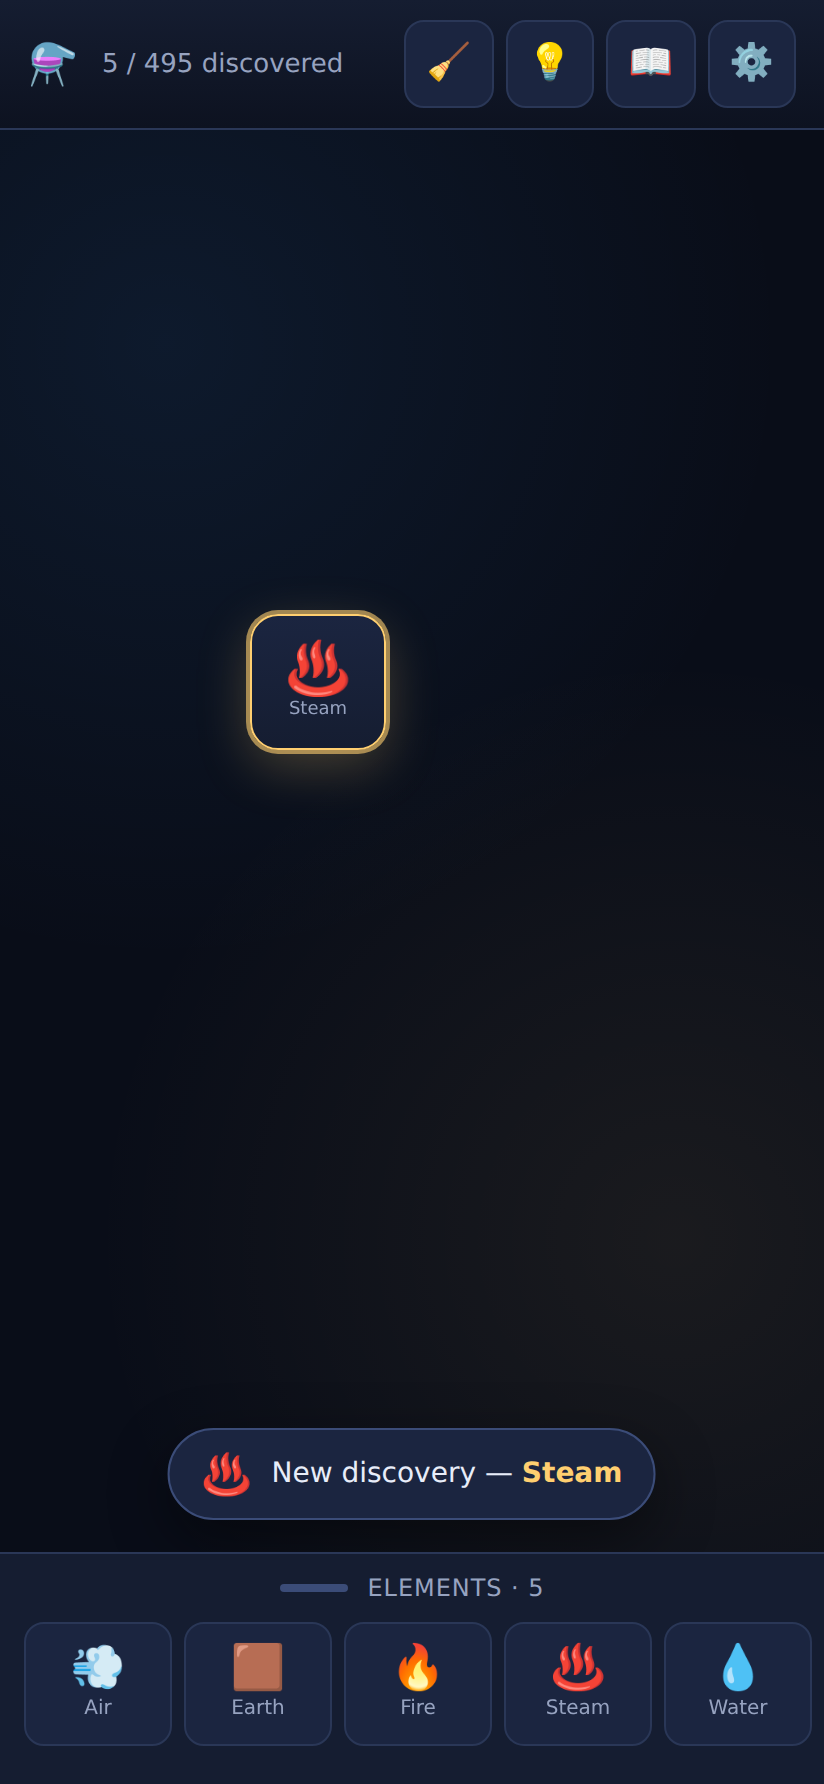
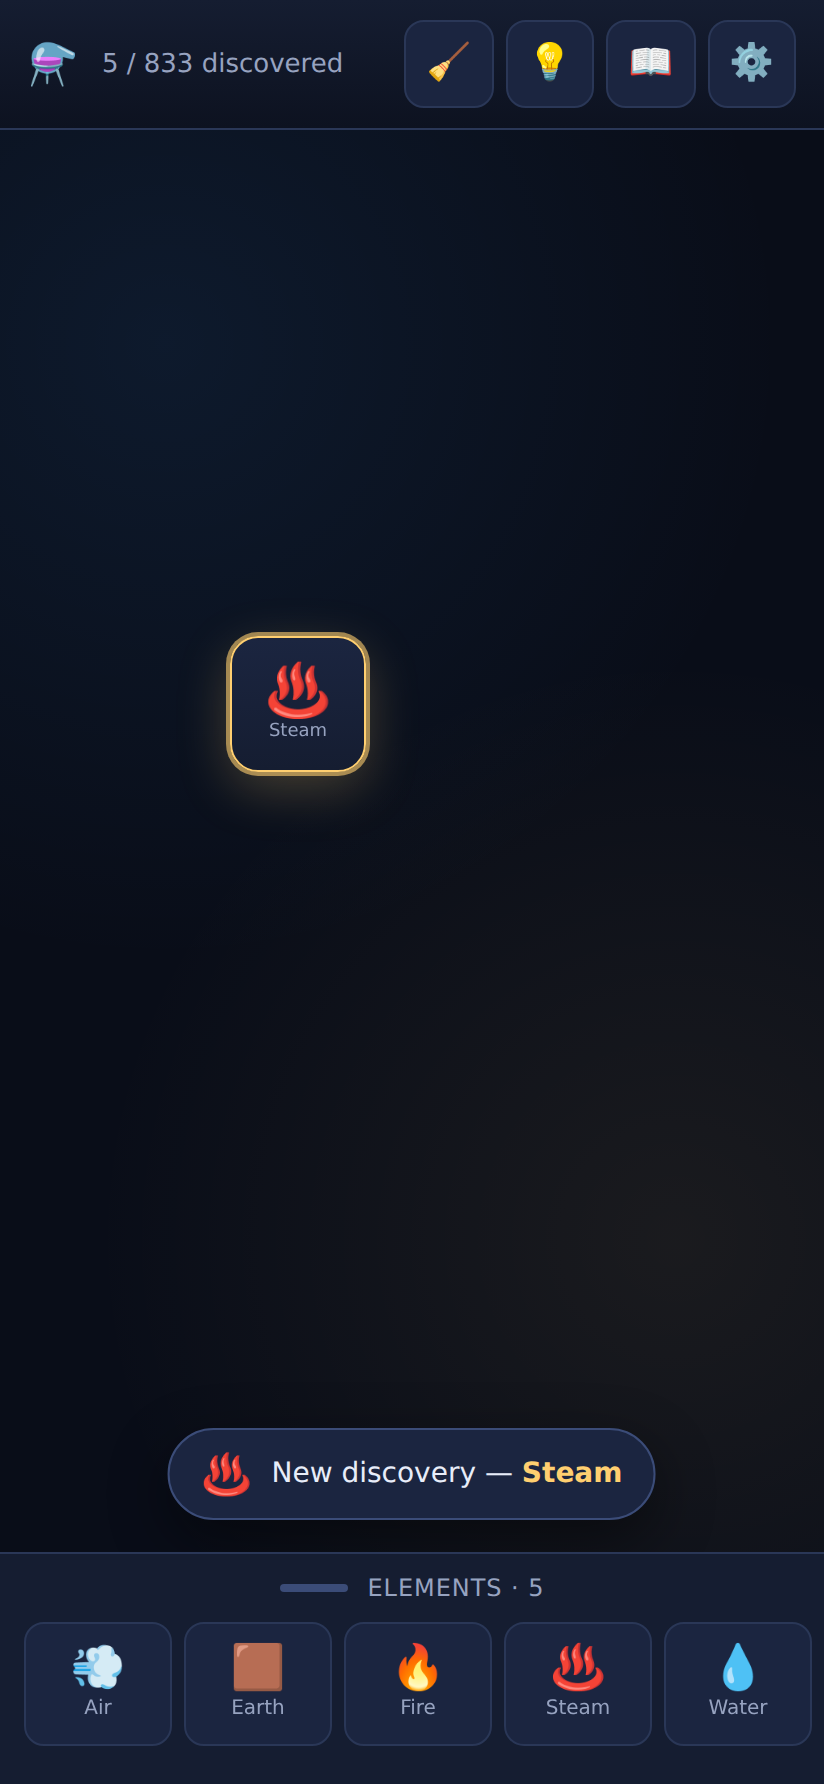
Add the opt-in spicy pack, its tests, and refreshed docs
52 adult joke elements behind the settings toggle, authored as a strict
leaf layer so the 833-element default game never depends on them. Adds
tests for that invariant, for the tame set validating on its own, and for
the tame set staying above 800.

Verified in a browser: the counter reads 833 with the mode off and 885
with it on, a spicy discovery survives being toggled off and comes back,
and spicy tokens leave the board rather than rendering blank.

Claude-Session: https://claude.ai/code/session_01CCYBmYiyKpWEL9iLGK5HsB

Changed region(s): [[0.2731, 0.3391, 0.4854, 0.4624], [0.182, 0.0308, 0.2124, 0.0617]]

diff --git a/alchemy-forge/src/data/packs/14-spicy.ts b/alchemy-forge/src/data/packs/14-spicy.ts
@@ -1,0 +1,175 @@
+import type { Pack } from '../types';
+
+/**
+ * The opt-in pack. Off by default and hidden entirely until the player turns
+ * spicy mode on in settings.
+ *
+ * Two rules hold every entry here together. Everything carries `spicy: true`,
+ * and nothing here is ever an input to a tame element — the validator enforces
+ * that as a hard error, because it is what lets the toggle exist at all.
+ *
+ * The register is joke, not erotica: the punchline lives in the blurb.
+ */
+export const spicyPack: Pack = {
+  id: 'spicy',
+  title: 'Spicy',
+  elements: [
+    { id: 'fart', name: 'Fart', emoji: '💨', category: 'spicy', spicy: true, blurb: 'The oldest joke in the language, and it still lands every single time.' },
+    { id: 'shart', name: 'Shart', emoji: '😬', category: 'spicy', spicy: true, blurb: 'A fart that overcommitted. There is no recovery from here, only laundry.' },
+    { id: 'dutch-oven', name: 'Dutch Oven', emoji: '🛏', category: 'spicy', spicy: true, blurb: 'The duvet is not a container. It is a delivery mechanism.' },
+    { id: 'toilet-throne', name: 'Porcelain Throne', emoji: '🚽', category: 'spicy', spicy: true, blurb: 'The only throne most people will ever sit on, and they take their phone.' },
+    { id: 'poo-pourri', name: 'Courtesy Flush', emoji: '🌀', category: 'spicy', spicy: true, blurb: 'A small kindness, performed under enormous pressure.' },
+    { id: 'morning-wood', name: 'Morning Wood', emoji: '🪵', category: 'spicy', spicy: true, blurb: 'Involuntary, inconvenient, and medically a sign that everything is working.' },
+    { id: 'boner', name: 'Inconvenient Boner', emoji: '📈', category: 'spicy', spicy: true, blurb: 'Arrives during presentations, never during opportunities.' },
+    { id: 'blue-balls', name: 'Blue Balls', emoji: '🔵', category: 'spicy', spicy: true, blurb: 'Real, mild, self-resolving, and historically used as an argument. Badly.' },
+    { id: 'viagra', name: 'Viagra', emoji: '💊', category: 'spicy', spicy: true, blurb: 'Developed for angina. The trial participants declined to return the leftovers.' },
+    { id: 'condom', name: 'Condom', emoji: '🎈', category: 'spicy', spicy: true, blurb: 'The one piece of safety equipment people argue about wearing.' },
+    { id: 'orgasm', name: 'Orgasm', emoji: '🎆', category: 'spicy', spicy: true, blurb: 'A few seconds that most of human history has been organised around.' },
+    { id: 'quickie', name: 'Quickie', emoji: '⏱', category: 'spicy', spicy: true, blurb: 'Scheduled around a lunch break, and honest about it.' },
+    { id: 'one-night-stand', name: 'One-Night Stand', emoji: '🌙', category: 'spicy', spicy: true, blurb: 'Two people who will both pretend not to see each other in the supermarket.' },
+    { id: 'walk-of-shame', name: 'Walk of Shame', emoji: '👠', category: 'spicy', spicy: true, blurb: 'Last night’s outfit, this morning’s sunlight, everyone’s window.' },
+    { id: 'hookup', name: 'Hookup', emoji: '🔗', category: 'spicy', spicy: true, blurb: 'A word chosen precisely because it commits to nothing.' },
+    { id: 'booty-call', name: 'Booty Call', emoji: '📞', category: 'spicy', spicy: true, blurb: 'Never placed before eleven, never answered honestly after.' },
+    { id: 'sexting', name: 'Sexting', emoji: '📲', category: 'spicy', spicy: true, blurb: 'Erotic literature, produced at speed, by amateurs, with autocorrect fighting back.' },
+    { id: 'dick-pic', name: 'Unsolicited Dick Pic', emoji: '🍆', category: 'spicy', spicy: true, blurb: 'Sent by people convinced this has worked at least once for somebody.' },
+    { id: 'thirst-trap', name: 'Thirst Trap', emoji: '🪤', category: 'spicy', spicy: true, blurb: 'A gym selfie with a caption about hard work.' },
+    { id: 'dating-app', name: 'Dating App', emoji: '🔥', category: 'spicy', spicy: true, blurb: 'A slot machine that occasionally pays out in disappointing dinners.' },
+    { id: 'ghosting', name: 'Ghosting', emoji: '👻', category: 'spicy', spicy: true, blurb: 'Ending a relationship by simply ceasing to exist. Cowardly and extremely popular.' },
+    { id: 'situationship', name: 'Situationship', emoji: '🤷', category: 'spicy', spicy: true, blurb: 'Eight months in and nobody has used a noun.' },
+    { id: 'ick', name: 'The Ick', emoji: '🫠', category: 'spicy', spicy: true, blurb: 'Attraction, destroyed permanently by one entirely innocent thing they did.' },
+    { id: 'simp', name: 'Simp', emoji: '🥺', category: 'spicy', spicy: true, blurb: 'Historically called courtship. The rebrand was not kind.' },
+    { id: 'sugar-daddy', name: 'Sugar Daddy', emoji: '🍬', category: 'spicy', spicy: true, blurb: 'An arrangement where at least everyone is clear on the terms.' },
+    { id: 'kink', name: 'Kink', emoji: '🪢', category: 'spicy', spicy: true, blurb: 'Whatever you are into, there is a forum, and it has moderators.' },
+    { id: 'safeword', name: 'Safeword', emoji: '🛑', category: 'spicy', spicy: true, blurb: 'The most responsible thing in this entire pack.' },
+    { id: 'handcuffs', name: 'Fuzzy Handcuffs', emoji: '🔗', category: 'spicy', spicy: true, blurb: 'The fur is there because the metal ones taught everybody a lesson.' },
+    { id: 'dungeon-room', name: 'Play Dungeon', emoji: '🕯', category: 'spicy', spicy: true, blurb: 'A basement with a booking system and a strict cleaning rota.' },
+    { id: 'strip-club', name: 'Strip Club', emoji: '💵', category: 'spicy', spicy: true, blurb: 'Ruinously expensive, aggressively lit, and the buffet is inexplicably good.' },
+    { id: 'brothel', name: 'Brothel', emoji: '🏮', category: 'spicy', spicy: true, blurb: 'The oldest business, and the one with the most euphemisms.' },
+    { id: 'porn', name: 'Porn', emoji: '📼', category: 'spicy', spicy: true, blurb: 'Drove the adoption of VHS, the internet, and streaming video. You are welcome.' },
+    { id: 'rule-34', name: 'Rule 34', emoji: '🖍', category: 'spicy', spicy: true, blurb: 'If it exists, someone has drawn it. Do not test this. Someone already has.' },
+    { id: 'furry', name: 'Fursona', emoji: '🦊', category: 'spicy', spicy: true, blurb: 'Costs four thousand pounds and is, by all accounts, worth it to them.' },
+    { id: 'orgy', name: 'Orgy', emoji: '🍇', category: 'spicy', spicy: true, blurb: 'The Romans get the credit, but the logistics were always the hard part.' },
+    { id: 'bachelor-party', name: 'Stag Do', emoji: '🎊', category: 'spicy', spicy: true, blurb: 'A weekend designed by the one friend nobody should have listened to.' },
+    { id: 'drunk-text', name: 'Drunk Text', emoji: '✉', category: 'spicy', spicy: true, blurb: 'Sent at 2am with total confidence, read at 9am with none.' },
+    { id: 'beer-goggles', name: 'Beer Goggles', emoji: '🥽', category: 'spicy', spicy: true, blurb: 'Not a change in perception. A change in standards.' },
+    { id: 'tequila', name: 'Tequila', emoji: '🥃', category: 'spicy', spicy: true, blurb: 'The only drink that comes with a ritual, a salt requirement, and a warning.' },
+    { id: 'blackout-drunk', name: 'Blackout', emoji: '🕳', category: 'spicy', spicy: true, blurb: 'You were there. You were talking. The tape simply was not running.' },
+    { id: 'keg-stand', name: 'Keg Stand', emoji: '🤸', category: 'spicy', spicy: true, blurb: 'Being held upside down by people who have also been drinking.' },
+    { id: 'hangover', name: 'Hangover', emoji: '🤕', category: 'spicy', spicy: true, blurb: 'The bill, presented in the morning, with interest.' },
+    { id: 'hangxiety', name: 'Hangxiety', emoji: '😰', category: 'spicy', spicy: true, blurb: 'The hangover of the mind, replaying one sentence you said at midnight.' },
+    { id: 'vomit', name: 'Technicolour Yawn', emoji: '🤮', category: 'spicy', spicy: true, blurb: 'Your body, filing a formal objection.' },
+    { id: 'kebab-3am', name: '3AM Kebab', emoji: '🥙', category: 'spicy', spicy: true, blurb: 'The best food you will ever eat, and only under these exact conditions.' },
+    { id: 'weed', name: 'Weed', emoji: '🌿', category: 'spicy', spicy: true, blurb: 'A plant that has caused more legislation than any other flowering species.' },
+    { id: 'bong', name: 'Bong', emoji: '🫧', category: 'spicy', spicy: true, blurb: 'Water filtration, applied with more enthusiasm than engineering.' },
+    { id: 'edible', name: 'Edible', emoji: '🍪', category: 'spicy', spicy: true, blurb: '"I don’t feel anything" is the most dangerous sentence in this pack.' },
+    { id: 'munchies', name: 'The Munchies', emoji: '🍟', category: 'spicy', spicy: true, blurb: 'An appetite with no ceiling and no taste.' },
+    { id: 'couch-lock', name: 'Couch Lock', emoji: '🛋', category: 'spicy', spicy: true, blurb: 'You could get up. You have simply reviewed the case and declined.' },
+    { id: 'paranoia', name: 'Paranoia', emoji: '👁', category: 'spicy', spicy: true, blurb: 'Everyone in the room knows. Everyone in the room is asleep.' },
+    { id: 'comedown', name: 'Comedown', emoji: '📉', category: 'spicy', spicy: true, blurb: 'The universe, quietly rebalancing the books on Tuesday.' },
+  ],
+  recipes: [
+    { a: 'human', b: 'stomach', out: 'fart' },
+    { a: 'beer', b: 'stomach', out: 'fart' },
+    { a: 'fart', b: 'curry', out: 'shart' },
+    { a: 'fart', b: 'takeaway', out: 'shart' },
+    { a: 'fart', b: 'cloth', out: 'dutch-oven' },
+    { a: 'fart', b: 'sleep', out: 'dutch-oven' },
+    { a: 'shart', b: 'house', out: 'toilet-throne' },
+    { a: 'sewer', b: 'smartphone', out: 'toilet-throne' },
+    { a: 'toilet-throne', b: 'blessing', out: 'poo-pourri' },
+    { a: 'toilet-throne', b: 'wind', out: 'poo-pourri' },
+    { a: 'sleep', b: 'boner', out: 'morning-wood' },
+    { a: 'morning-wood', b: 'meeting', out: 'boner' },
+    { a: 'blood', b: 'dream', out: 'boner' },
+    { a: 'boner', b: 'ice', out: 'blue-balls' },
+    { a: 'boner', b: 'ghosting', out: 'blue-balls' },
+    { a: 'boner', b: 'medicine', out: 'viagra' },
+    { a: 'heart-organ', b: 'pharmacy', out: 'viagra' },
+    { a: 'rubber', b: 'hookup', out: 'condom' },
+    { a: 'rubber', b: 'blessing', out: 'condom' },
+    { a: 'hookup', b: 'lightning', out: 'orgasm' },
+    { a: 'nerve', b: 'quickie', out: 'orgasm' },
+    { a: 'hookup', b: 'clock', out: 'quickie' },
+    { a: 'hookup', b: 'coffee-break', out: 'quickie' },
+    { a: 'hookup', b: 'night', out: 'one-night-stand' },
+    { a: 'beer-goggles', b: 'hookup', out: 'one-night-stand' },
+    { a: 'one-night-stand', b: 'sun', out: 'walk-of-shame' },
+    { a: 'one-night-stand', b: 'shoe', out: 'walk-of-shame' },
+    { a: 'dating-app', b: 'night', out: 'hookup' },
+    { a: 'strip-club', b: 'money', out: 'hookup' },
+    { a: 'hookup', b: 'telephone', out: 'booty-call' },
+    { a: 'hookup', b: 'notification', out: 'booty-call' },
+    { a: 'smartphone', b: 'porn', out: 'sexting' },
+    { a: 'writing', b: 'boner', out: 'sexting' },
+    { a: 'sexting', b: 'camera', out: 'dick-pic' },
+    { a: 'boner', b: 'photograph', out: 'dick-pic' },
+    { a: 'social-media', b: 'gym', out: 'thirst-trap' },
+    { a: 'influencer', b: 'mirror', out: 'thirst-trap' },
+    { a: 'app', b: 'love', out: 'dating-app' },
+    { a: 'app', b: 'thirst-trap', out: 'dating-app' },
+    { a: 'dating-app', b: 'silence', out: 'ghosting' },
+    { a: 'ghost', b: 'situationship', out: 'ghosting' },
+    { a: 'hookup', b: 'time', out: 'situationship' },
+    { a: 'love', b: 'chaos', out: 'situationship' },
+    { a: 'situationship', b: 'mirror', out: 'ick' },
+    { a: 'love', b: 'fart', out: 'ick' },
+    { a: 'love', b: 'money', out: 'simp' },
+    { a: 'influencer', b: 'love', out: 'simp' },
+    { a: 'simp', b: 'treasure', out: 'sugar-daddy' },
+    { a: 'money', b: 'situationship', out: 'sugar-daddy' },
+    { a: 'porn', b: 'idea', out: 'kink' },
+    { a: 'rope', b: 'love', out: 'kink' },
+    { a: 'kink', b: 'law', out: 'safeword' },
+    { a: 'kink', b: 'word', out: 'safeword' },
+    { a: 'kink', b: 'fur', out: 'handcuffs' },
+    { a: 'kink', b: 'iron', out: 'handcuffs' },
+    { a: 'kink', b: 'cave', out: 'dungeon-room' },
+    { a: 'handcuffs', b: 'house', out: 'dungeon-room' },
+    { a: 'dance', b: 'money', out: 'strip-club' },
+    { a: 'bachelor-party', b: 'city', out: 'strip-club' },
+    { a: 'strip-club', b: 'house', out: 'brothel' },
+    { a: 'money', b: 'orgasm', out: 'brothel' },
+    { a: 'film', b: 'orgasm', out: 'porn' },
+    { a: 'internet', b: 'brothel', out: 'porn' },
+    { a: 'porn', b: 'meme', out: 'rule-34' },
+    { a: 'porn', b: 'art', out: 'rule-34' },
+    { a: 'rule-34', b: 'costume', out: 'furry' },
+    { a: 'fur', b: 'costume', out: 'furry' },
+    { a: 'orgasm', b: 'feast', out: 'orgy' },
+    { a: 'hookup', b: 'festival', out: 'orgy' },
+    { a: 'beer', b: 'quest', out: 'bachelor-party' },
+    { a: 'weekend', b: 'tequila', out: 'bachelor-party' },
+    { a: 'blackout-drunk', b: 'smartphone', out: 'drunk-text' },
+    { a: 'tequila', b: 'love', out: 'drunk-text' },
+    { a: 'beer', b: 'glasses', out: 'beer-goggles' },
+    { a: 'tequila', b: 'night', out: 'beer-goggles' },
+    { a: 'cactus', b: 'vodka', out: 'tequila' },
+    { a: 'cactus', b: 'salt', out: 'tequila' },
+    { a: 'tequila', b: 'void', out: 'blackout-drunk' },
+    { a: 'whiskey', b: 'keg-stand', out: 'blackout-drunk' },
+    { a: 'beer', b: 'bachelor-party', out: 'keg-stand' },
+    { a: 'beer', b: 'gravity', out: 'keg-stand' },
+    { a: 'blackout-drunk', b: 'morning-wood', out: 'hangover' },
+    { a: 'beer', b: 'sun', out: 'hangover' },
+    { a: 'hangover', b: 'drunk-text', out: 'hangxiety' },
+    { a: 'hangover', b: 'therapy', out: 'hangxiety' },
+    { a: 'hangover', b: 'kebab-3am', out: 'vomit' },
+    { a: 'tequila', b: 'stomach', out: 'vomit' },
+    { a: 'blackout-drunk', b: 'takeaway', out: 'kebab-3am' },
+    { a: 'meat', b: 'blackout-drunk', out: 'kebab-3am' },
+    { a: 'herb', b: 'smoke', out: 'weed' },
+    { a: 'plant', b: 'law', out: 'weed' },
+    { a: 'weed', b: 'pipe', out: 'bong' },
+    { a: 'weed', b: 'well', out: 'bong' },
+    { a: 'weed', b: 'cookie', out: 'edible' },
+    { a: 'weed', b: 'butter', out: 'edible' },
+    { a: 'bong', b: 'refrigerator', out: 'munchies' },
+    { a: 'edible', b: 'supermarket', out: 'munchies' },
+    { a: 'edible', b: 'streaming', out: 'couch-lock' },
+    { a: 'bong', b: 'sleep', out: 'couch-lock' },
+    { a: 'edible', b: 'notification', out: 'paranoia' },
+    { a: 'weed', b: 'nightmare', out: 'paranoia' },
+    { a: 'paranoia', b: 'morning-wood', out: 'comedown' },
+    { a: 'orgasm', b: 'entropy', out: 'comedown' },
+  ],
+};

diff --git a/alchemy-forge/tests/data.test.ts b/alchemy-forge/tests/data.test.ts
@@ -1,5 +1,6 @@
 import { describe, expect, it } from 'vitest';
-import { ELEMENTS, INDEX, RECIPES } from '../src/data/index';
+import { ELEMENTS, INDEX, RECIPES, TAME_ELEMENTS, TAME_INDEX, TAME_RECIPES } from '../src/data/index';
+import { spicyPack } from '../src/data/packs/14-spicy';
 import { validateData } from '../src/data/validate';
 import { pairKey, reachableDepths } from '../src/data/indexes';
 import { BASE_ELEMENT_IDS } from '../src/data/types';
@@ -37,6 +38,36 @@ describe('recipe data', () => {
     // Sanity: the tree should have leaves, but not consist mostly of them.
     expect(INDEX.finalIds.size).toBeGreaterThan(0);
     expect(INDEX.finalIds.size).toBeLessThan(ELEMENTS.length / 2);
+  });
+});
+
+describe('spicy content', () => {
+  it('marks every element in the spicy pack, and nothing outside it', () => {
+    for (const element of spicyPack.elements) expect(element.spicy).toBe(true);
+
+    const spicyIds = new Set(spicyPack.elements.map((element) => element.id));
+    const strays = ELEMENTS.filter((element) => element.spicy && !spicyIds.has(element.id));
+    expect(strays.map((element) => element.id)).toEqual([]);
+  });
+
+  it('never lets a spicy input produce a tame element', () => {
+    // The invariant the whole toggle rests on: subtracting the spicy set must
+    // never leave a tame element with no way in.
+    const spicyIds = new Set(ELEMENTS.filter((element) => element.spicy).map((e) => e.id));
+    const leaks = RECIPES.filter(
+      (recipe) => (spicyIds.has(recipe.a) || spicyIds.has(recipe.b)) && !spicyIds.has(recipe.out),
+    );
+    expect(leaks).toEqual([]);
+  });
+
+  it('validates cleanly with the spicy pack subtracted', () => {
+    const tameReport = validateData(TAME_ELEMENTS, TAME_RECIPES);
+    expect(tameReport.errors).toEqual([]);
+    expect(tameReport.stats.unreachable).toEqual([]);
+  });
+
+  it('leaves a full-sized game for players who never turn spicy mode on', () => {
+    expect(TAME_INDEX.all.length).toBeGreaterThanOrEqual(800);
   });
 });
 

diff --git a/alchemy-forge/src/data/index.ts b/alchemy-forge/src/data/index.ts
@@ -15,13 +15,14 @@ import { bodyPack } from './packs/10-body';
 import { modernPack } from './packs/11-modern';
 import { arcanaPack } from './packs/12-arcana';
 import { apocalypsePack } from './packs/13-apocalypse';
+import { spicyPack } from './packs/14-spicy';
 
 /**
  * Packs are merged in order. Splitting content this way keeps each themed
  * branch of the tree editable on its own, and lets the validator report which
  * bundle a problem came from.
  */
-export const PACKS: Pack[] = [basePack, primordialPack, naturePack, civilizationPack, technologyPack, culturePack, cosmosPack, mythologyPack, kitchenPack, oceanPack, bodyPack, modernPack, arcanaPack, apocalypsePack];
+export const PACKS: Pack[] = [basePack, primordialPack, naturePack, civilizationPack, technologyPack, culturePack, cosmosPack, mythologyPack, kitchenPack, oceanPack, bodyPack, modernPack, arcanaPack, apocalypsePack, spicyPack];
 
 export const ELEMENTS: Element[] = PACKS.flatMap((pack) => pack.elements);
 export const RECIPES: Recipe[] = PACKS.flatMap((pack) => pack.recipes);

diff --git a/alchemy-forge/README.md b/alchemy-forge/README.md
@@ -1,8 +1,8 @@
 # Alchemy Forge
 
 A crafting puzzle game for the phone. Start with air, earth, fire and water;
-drag two together and see what comes out. There are **495 elements** and **981
-combinations** to find. 
+drag two together and see what comes out. There are **833 elements** and **1656
+combinations** to find, plus an optional adults-only pack of 52 more.
 
 Plain HTML5 — it installs to the home screen and plays fully offline.
 
@@ -77,6 +77,20 @@ recipe graph, never hand-authored, so it cannot fall out of step.
 The element set is original to this project. It is the same genre as Little
 Alchemy 2, not a copy of its content.
 
+### Spicy mode
+
+`src/data/packs/14-spicy.ts` is a pack of crude adult joke elements, switched
+off by default and revealed by a toggle in Settings. Its elements carry
+`spicy: true`, and the game keeps two indexes — `TAME_INDEX` and `FULL_INDEX`
+in `src/data/index.ts` — with `activeIndex()` choosing between them, so flipping
+the toggle costs an assignment rather than a reload.
+
+The pack is a strict leaf layer: a spicy element may be *made from* tame ones,
+but no tame element is ever produced from a spicy input. The validator enforces
+that as an error and walks reachability twice, once with the pack subtracted, so
+the default game can never end up depending on content it does not show.
+Discoveries made in spicy mode stay in the save when it is switched back off.
+
 ### The data gate
 
 ```bash
@@ -87,7 +101,8 @@ Hand-authoring a thousand recipes goes wrong in ways you cannot see by reading
 them, so this walks the graph outward from air/earth/fire/water and fails if
 anything is unreachable — content the player could never see. It also catches
 dangling ids, recipes that produce one of their own inputs, duplicates, and
-pairs that accidentally yield two different elements.
+pairs that accidentally yield two different elements. It reports the tame and
+spicy sets separately and validates both.
 
 To add content: add elements and recipes to a pack, then run the validator.
 
